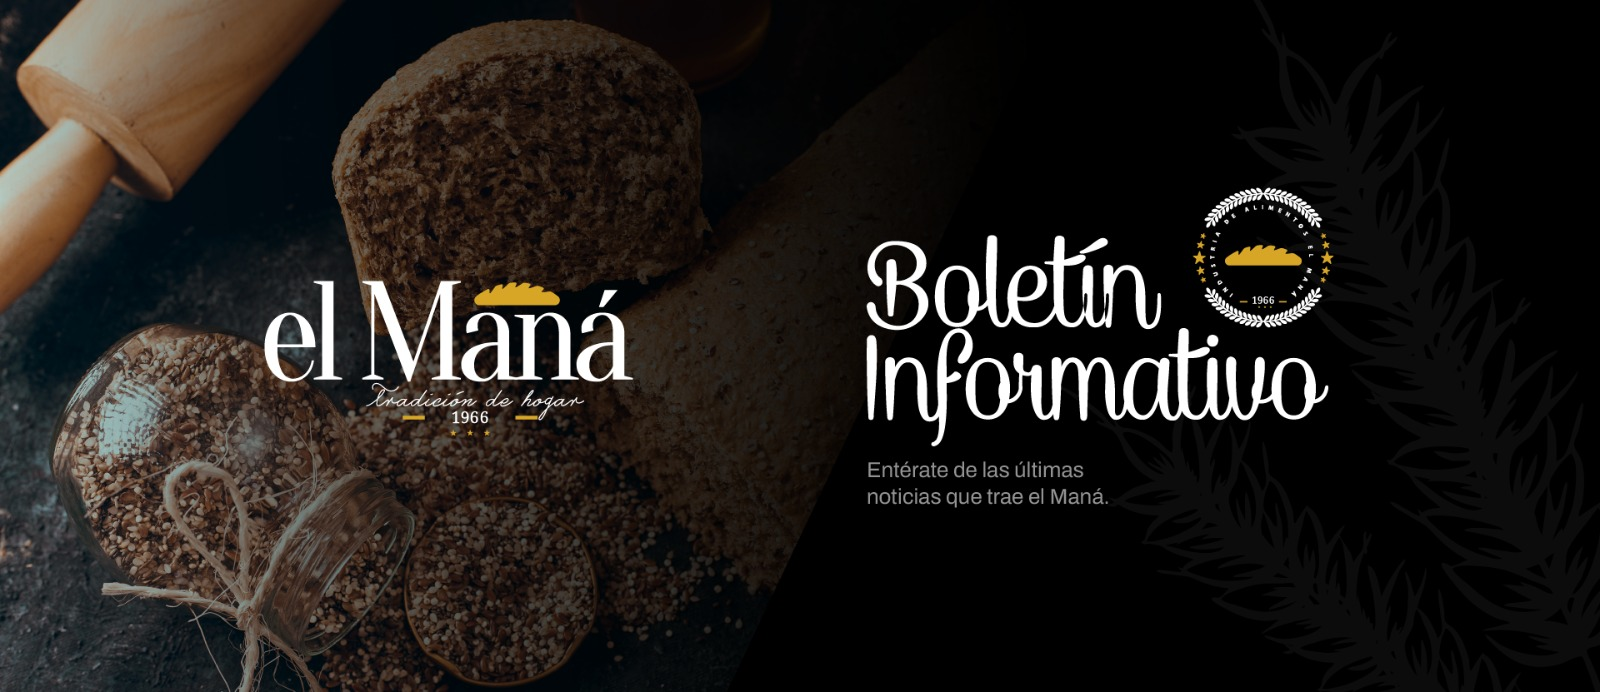
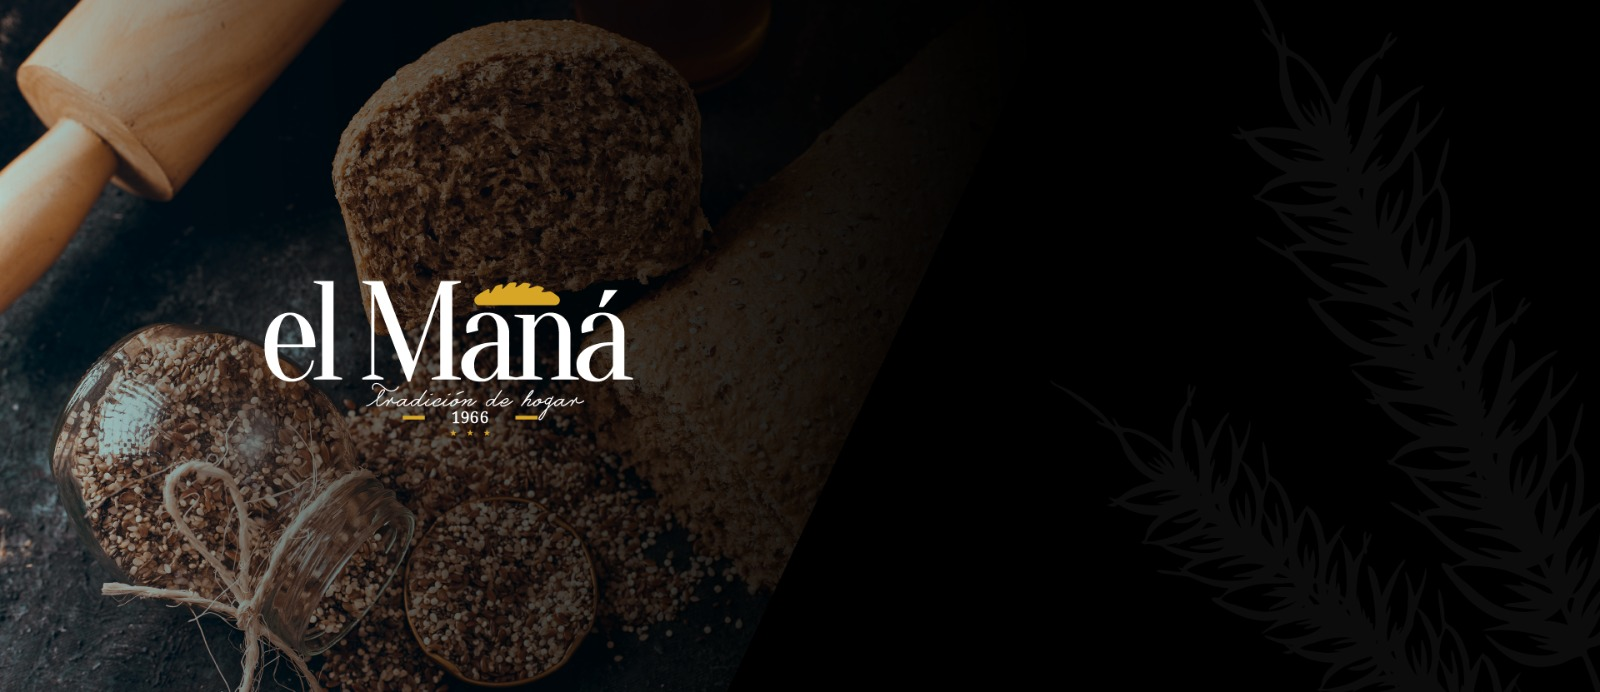
agregarboletin

Changed region(s): [[0.5312, 0.2731, 0.8438, 0.6373], [0.5312, 0.6676, 0.6875, 0.7283]]

diff --git a/index.html b/index.html
@@ -180,16 +180,19 @@
 
 
             </div>
-            <div class="hero-slide" data-bg="images/fondos/boletin.jpg">
-
-                <div style="position: absolute;
-    right: 18%;top: 67%;" class="hero-content">
-
+            <div id="boletin" class="hero-slide" data-bg="images/fondos/boletin.jpg">
+<div id="tituloBoletin">
+                    <h1 style="color:#fff;">Boletín </h1>
+                    <h1 style="color:#fff;">Informativo</h1>
+                </div>
+                <div id="informacionBoletin">
+                     <p>Entérate de las últimas noticias que trae el Maná</p>
                     <button class="menu-button">
                         Ver Mas
                         <span style="margin-left: 8px; font-size: 1.2em;">&#8594;</span>
                     </button>
 
+                   
                 </div>
             </div>
         </div>
@@ -291,7 +294,7 @@
                 }
 
                 function startAutoSlide() {
-                    autoSlideInterval = setInterval(nextSlide, 5000);
+                    autoSlideInterval = setInterval(nextSlide, 5000000);
                 }
 
                 function stopAutoSlide() {
@@ -321,7 +324,7 @@
                     slide.style.opacity = i === 0 ? '1' : '0';
                     slide.style.display = i === 0 ? '' : 'none';
                 });
-                showSlide(0);
+                showSlide(3);
                 startAutoSlide();
             });
         </script>

diff --git a/styles2.css b/styles2.css
@@ -820,6 +820,36 @@ h3 {
 
     align-content: center;
 }
+#boletin{
+    display: flex;
+    flex-direction: column;
+    align-items: flex-end;
+    justify-content: center;
+    text-align: end;
+    width: 90%;
+    padding: 20px;
+    border-radius: 10px;
+    margin: 0;
+    margin-top: 15vh;
+}
+#tituloBoletin{
+    text-align: start;
+}
+#informacionBoletin {
+    display: flex;
+    flex-direction: row;
+    justify-content: flex-end;
+    width: 100%;
+        align-items: center;
+
+}
+#informacionBoletin p{
+   text-align: start;
+    width: 20%;
+}
+#informacionBoletin button{
+  margin-left: 4%;
+}
 
 /* Responsive Styles */
 @media (max-width: 992px) {
@@ -910,6 +940,40 @@ h3 {
         align-items: center;
         width: 100%;
     }
+
+    #boletin{
+    display: flex;
+    flex-direction: column;
+    align-items: center;
+    justify-content: center;
+    text-align: end;
+    width: 100%;
+    padding: 20px;
+    border-radius: 10px;
+    margin: 0;
+    height: 90vh;
+}
+#tituloBoletin{
+    text-align: center;
+    
+}
+#tituloBoletin h1{
+font-size: 5rem;    
+}
+#informacionBoletin {
+    display: flex;
+    flex-direction: column;
+    justify-content: center;
+    align-items: center;
+    width: 100%;
+}
+#informacionBoletin p{
+   text-align: center;
+    width: 50%;
+}
+#informacionBoletin button{
+  margin-left: 4%;
+}
 }
     @media (max-width: 600px) {
         .header-icons .search-container {
